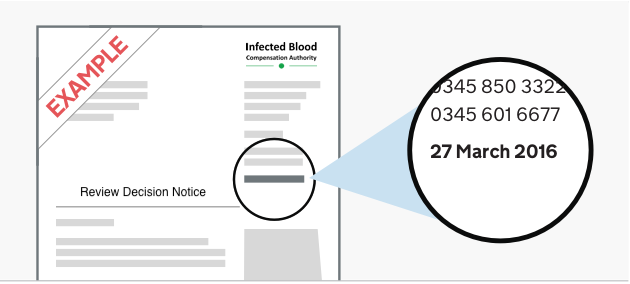
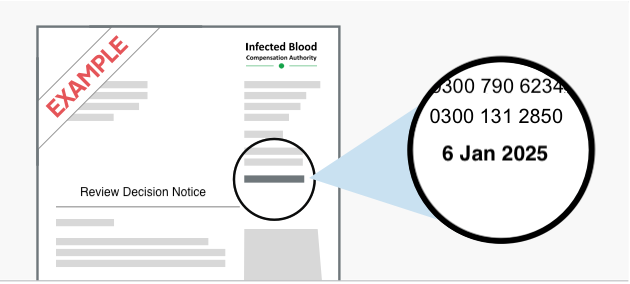
SSCSCI-1451: updating rdn date graphic (#1593)
* SSCSCI-1451: updating rdn date graphic

* SSCSCI-1451: Updating DateUtil to check the new rdn date graphic

diff --git a/test/unit/utils/DateUtils.test.js b/test/unit/utils/DateUtils.test.js
@@ -158,14 +158,24 @@ describe('isDateInPast', () => {
 describe('mrnDateSameAsImage', () => {
   let date = null;
 
-  it('should return true if date is the same as the image', () => {
-    date = DateUtils.createMoment(mrnDateImage.day, mrnDateImage.month, mrnDateImage.year);
-    expect(DateUtils.mrnDateSameAsImage(date)).to.be.true;
+  it('should return true if date is the same as the image for non-iba', () => {
+    date = DateUtils.createMoment(mrnDateImage.mrnDate.day, mrnDateImage.mrnDate.month, mrnDateImage.mrnDate.year);
+    expect(DateUtils.mrnDateSameAsImage(date, false)).to.be.true;
   });
 
-  it('should return false if date is the different to the image', () => {
+  it('should return false if date is the different to the image for non-iba', () => {
     date = moment();
-    expect(DateUtils.mrnDateSameAsImage(date)).to.be.false;
+    expect(DateUtils.mrnDateSameAsImage(date, false)).to.be.false;
+  });
+
+  it('should return true if date is the same as the image for iba', () => {
+    date = DateUtils.createMoment(mrnDateImage.rdnDate.day, mrnDateImage.rdnDate.month, mrnDateImage.rdnDate.year);
+    expect(DateUtils.mrnDateSameAsImage(date, true)).to.be.true;
+  });
+
+  it('should return false if date is the different to the image for iba', () => {
+    date = moment();
+    expect(DateUtils.mrnDateSameAsImage(date, true)).to.be.false;
   });
 });
 

diff --git a/utils/DateUtils.js b/utils/DateUtils.js
@@ -75,8 +75,9 @@ class DateUtils {
     return moment().isSameOrAfter(date, 'day');
   }
 
-  static mrnDateSameAsImage(date) {
-    const imageDate = this.createMoment(mrnDateImage.day, mrnDateImage.month, mrnDateImage.year);
+  static mrnDateSameAsImage(date, isIbaDate) {
+    const dateObject = isIbaDate ? mrnDateImage.rdnDate : mrnDateImage.mrnDate;
+    const imageDate = this.createMoment(dateObject.day, dateObject.month, dateObject.year);
     return imageDate.isSame(date);
   }
 

diff --git a/steps/compliance/mrn-date/MRNDate.js b/steps/compliance/mrn-date/MRNDate.js
@@ -44,7 +44,7 @@ class MRNDate extends SaveToDraftStore {
         value => DateUtils.isDateInPast(value)
       ).check(
         fields.date.error[`dateSameAsImage${this.suffix}`],
-        value => !DateUtils.mrnDateSameAsImage(value)
+        value => !DateUtils.mrnDateSameAsImage(value, isIba(this.req))
       )
 
     });

diff --git a/steps/compliance/mrn-date/mrnDateOnImage.js b/steps/compliance/mrn-date/mrnDateOnImage.js
@@ -4,4 +4,13 @@ const mrnDate = {
   year: '2016'
 };
 
-module.exports = mrnDate;
+const rdnDate = {
+  day: '06',
+  month: '01',
+  year: '2025'
+};
+
+module.exports = {
+  mrnDate,
+  rdnDate
+};
